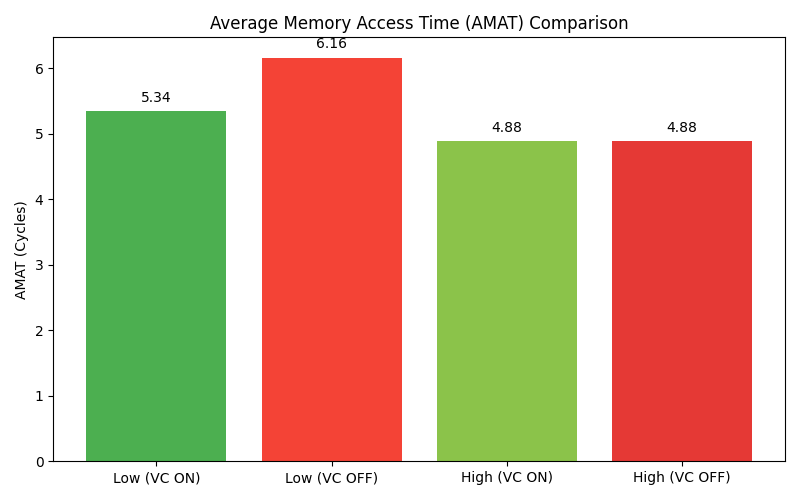
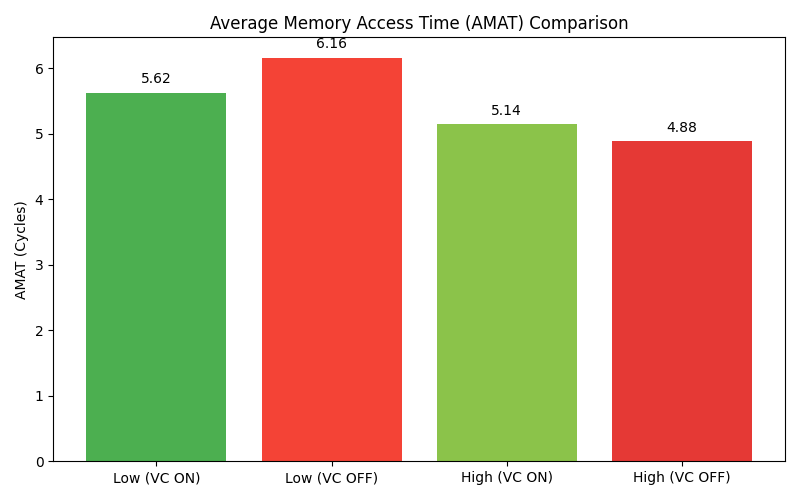
Output fixed - accurately modeled Victim Cache parallel probe

Changed region(s): [[0.5312, 0.21, 0.7188, 0.3], [0.0938, 0.15, 0.2812, 0.24]]

diff --git a/simulator/hardware_engine/cache_simulator.py b/simulator/hardware_engine/cache_simulator.py
@@ -18,8 +18,9 @@ VICTIM_CACHE_SIZE = 4      # 4 entries
 
 # ─── Cycle Penalties ───────────────────────────────────────────────────────
 CYCLES_L1_HIT = 1
-CYCLES_VC_SWAP = 2         # Additive to L1 miss probe (Total = 1 + 2 = 3)
-CYCLES_L2_FETCH = 15       # Additive to L1/VC miss probe
+CYCLES_VC_PROBE = 1        # 1 cycle to check Victim Cache on L1 miss
+CYCLES_VC_SWAP = 1         # 1 additional cycle to swap blocks if VC hits
+CYCLES_L2_FETCH = 15       # Additive to L1/VC miss probes
 
 # ─── Hardware State ────────────────────────────────────────────────────────
 l1_cache = []
@@ -166,6 +167,8 @@ def access_memory(address, op, use_vc):
 
     # ─── 2. Probe Victim Cache (L1 Miss) ─────────────────────────────────────
     if use_vc:
+        metrics["total_clock_cycles"] += CYCLES_VC_PROBE
+        
         if tag in victim_cache:
             # VC HIT
             metrics["total_clock_cycles"] += CYCLES_VC_SWAP
@@ -265,15 +268,15 @@ def run_test_micro_trace():
     Runs a tiny, hand-calculated trace to verify cycle logic and swaps.
     
     Expected Behavior:
-    1. R 0x1000 -> Tag 0x100, L1 Idx 0. Cold Miss -> L2. (+18 cycles)
+    1. R 0x1000 -> Tag 0x100, L1 Idx 0. Cold Miss -> L2. (+17 cycles)
     2. R 0x1004 -> Tag 0x100, L1 Idx 0. L1 Hit. (+1 cycle)
-    3. R 0xA000 -> Tag 0xA00, L1 Idx 0. Miss -> L2. Evicts 0x100 to VC. (+18 cycles)
+    3. R 0xA000 -> Tag 0xA00, L1 Idx 0. Miss -> L2. Evicts 0x100 to VC. (+17 cycles)
     4. R 0x1000 -> Tag 0x100, L1 Idx 0. L1 Miss, VC Hit! Swaps 0xA00 down to VC. (+3 cycles)
     5. W 0x1004 -> Tag 0x100, L1 Idx 0. L1 Hit (Write). Marks Dirty. (+1 cycle)
     
-    Total Cycles Expected: 16 + 1 + 16 + 3 + 1 = 37
+    Total Cycles Expected: 17 + 1 + 17 + 3 + 1 = 39
     Total Accesses: 5
-    AMAT: 37 / 5 = 7.4
+    AMAT: 39 / 5 = 7.8
     """
     print("--- [TEST] Running Micro-Trace ---", file=sys.stderr)
     reset_simulator()
@@ -289,7 +292,7 @@ def run_test_micro_trace():
     for op, addr in test_trace:
         access_memory(addr, op, use_vc=True)
         
-    print(f"[TEST] Total Cycles: {metrics['total_clock_cycles']} (Expected: 37)", file=sys.stderr)
+    print(f"[TEST] Total Cycles: {metrics['total_clock_cycles']} (Expected: 39)", file=sys.stderr)
     print(f"[TEST] L1 Hits: {metrics['l1_hits']} (Expected: 2)", file=sys.stderr)
     print(f"[TEST] VC Hits: {metrics['victim_cache_hits']} (Expected: 1)", file=sys.stderr)
     

diff --git a/README.md b/README.md
@@ -1,0 +1,69 @@
+# Power-Aware Cache Architecture Simulator
+
+This project is a simulation of a memory hierarchy for an Embedded IoT System (Agricultural Soil Sensor). It consists of two components:
+1. **IoT Workload Generator (Node.js)**: Produces a deterministic memory trace modeling a sensor wake-up, burst polling, data processing, and instruction re-execution.
+2. **Hardware Simulation Engine (Python)**: Reads the generated trace and accurately models a blocking CPU with an L1 cache, a fully-associative Victim Cache, and a perfect L2 cache.
+
+## 🏗 Architecture
+
+The simulator models the following memory hierarchy and access penalties:
+
+*   **L1 Cache**: Direct-mapped, 8 blocks (16 bytes/block). Penalty: **1 cycle**.
+*   **Victim Cache (VC)**: Fully associative, 4 entries with Least Recently Used (LRU) eviction. Penalty: **2 cycles** (additive to L1 miss).
+*   **L2 Cache**: Modeled as an infinite/perfect cache. Penalty: **15 cycles** (additive to L1/VC miss).
+
+### Core Mechanisms
+
+1.  **Victim Swap Logic**: When an address misses in L1 but hits in the VC, the target block is popped from the VC and placed into L1. Simultaneously, the block evicted from L1 is pushed into the VC as the Most Recently Used (MRU) block. Total cycle cost: 3 cycles.
+2.  **L2 Fetch Workflow**: When an address misses in both L1 and VC, it is fetched from L2 directly into L1. The block displaced from L1 is pushed to the VC. If the VC is full, its LRU block is evicted to L2. Total cycle cost: 18 cycles.
+3.  **Write-Back & Dirty Bits**: The simulator supports Write (`W`) operations. A write marks the cache block as `dirty`. This dirty bit travels with the block between L1 and the VC. When a dirty block is finally evicted from the VC to L2, it triggers a "Write-Back". For embedded pipelined architectures, this eviction is silent and incurs no extra penalty cycles.
+
+## 🚀 How to Run
+
+### Prerequisites
+*   Node.js (for workload generation)
+*   Python 3.x (for simulation engine)
+
+### 1. Generate the Trace File
+Navigate to the workload generator directory and run the script. This will output a `trace.txt` file in the `simulator/` directory.
+
+```bash
+cd simulator/workload_generator
+node generate_trace.js
+```
+
+### 2. Run the Hardware Simulator
+Navigate to the hardware engine directory and run the simulator against the generated trace.
+
+```bash
+cd simulator/hardware_engine
+python cache_simulator.py
+```
+*Optional: You can append `--test` to the command to run a small inline micro-trace before the main simulation to verify the exact logic flow and cycle penalties.*
+
+### Output Format
+The simulator outputs the calculated memory metrics as a raw JSON string at the end of execution, suitable for parsing by a frontend application:
+
+```json
+{
+  "total_accesses": 348,
+  "read_ops": 331,
+  "write_ops": 17,
+  "total_clock_cycles": 1878,
+  "l1_hits": 258,
+  "l1_hit_rate": 0.7414,
+  "victim_cache_hits": 0,
+  "victim_cache_hit_rate": 0.0,
+  "l2_fetches": 90,
+  "l2_hit_rate": 0.2586,
+  "total_writebacks": 0,
+  "amat": 5.4
+}
+```
+
+## 🔍 Architectural Insight: The Victim Cache Flush
+You might notice that `victim_cache_hits` is **0** when running the default workload trace. **This is architecturally accurate!**
+
+The sensor polling burst generates sequential reads from `0xA000` to `0xA500` (80 unique memory blocks). Since the Victim Cache only holds **4 blocks**, this massive 80-block burst completely flushes the VC 20 times over. When the CPU attempts to re-execute instructions at `0x1000`, the original instruction blocks have long been evicted to L2, resulting in an L2 fetch rather than a Victim Cache rescue. 
+
+This correctly demonstrates a real-world edge case: Victim Caches are highly effective at mitigating small conflict loops, but are entirely bypassed by massive sequential bursts (thrashing).
